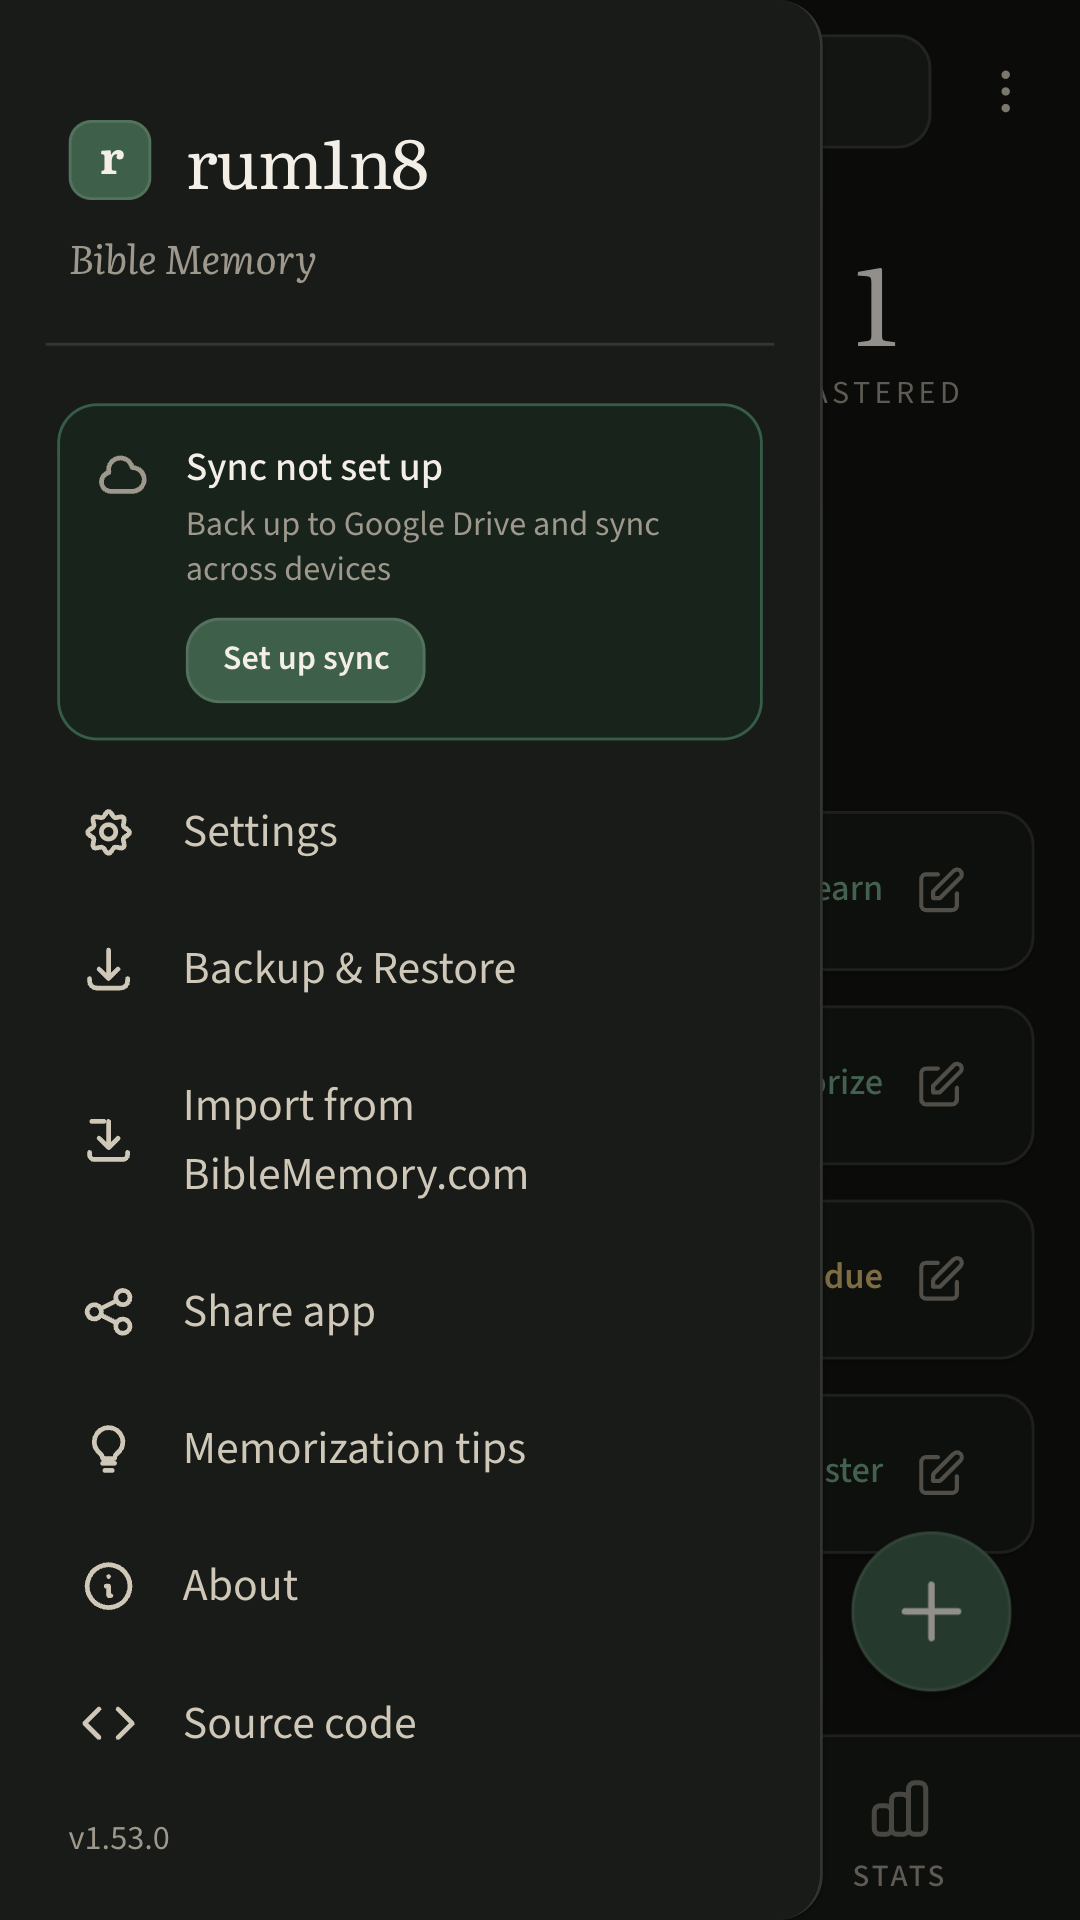
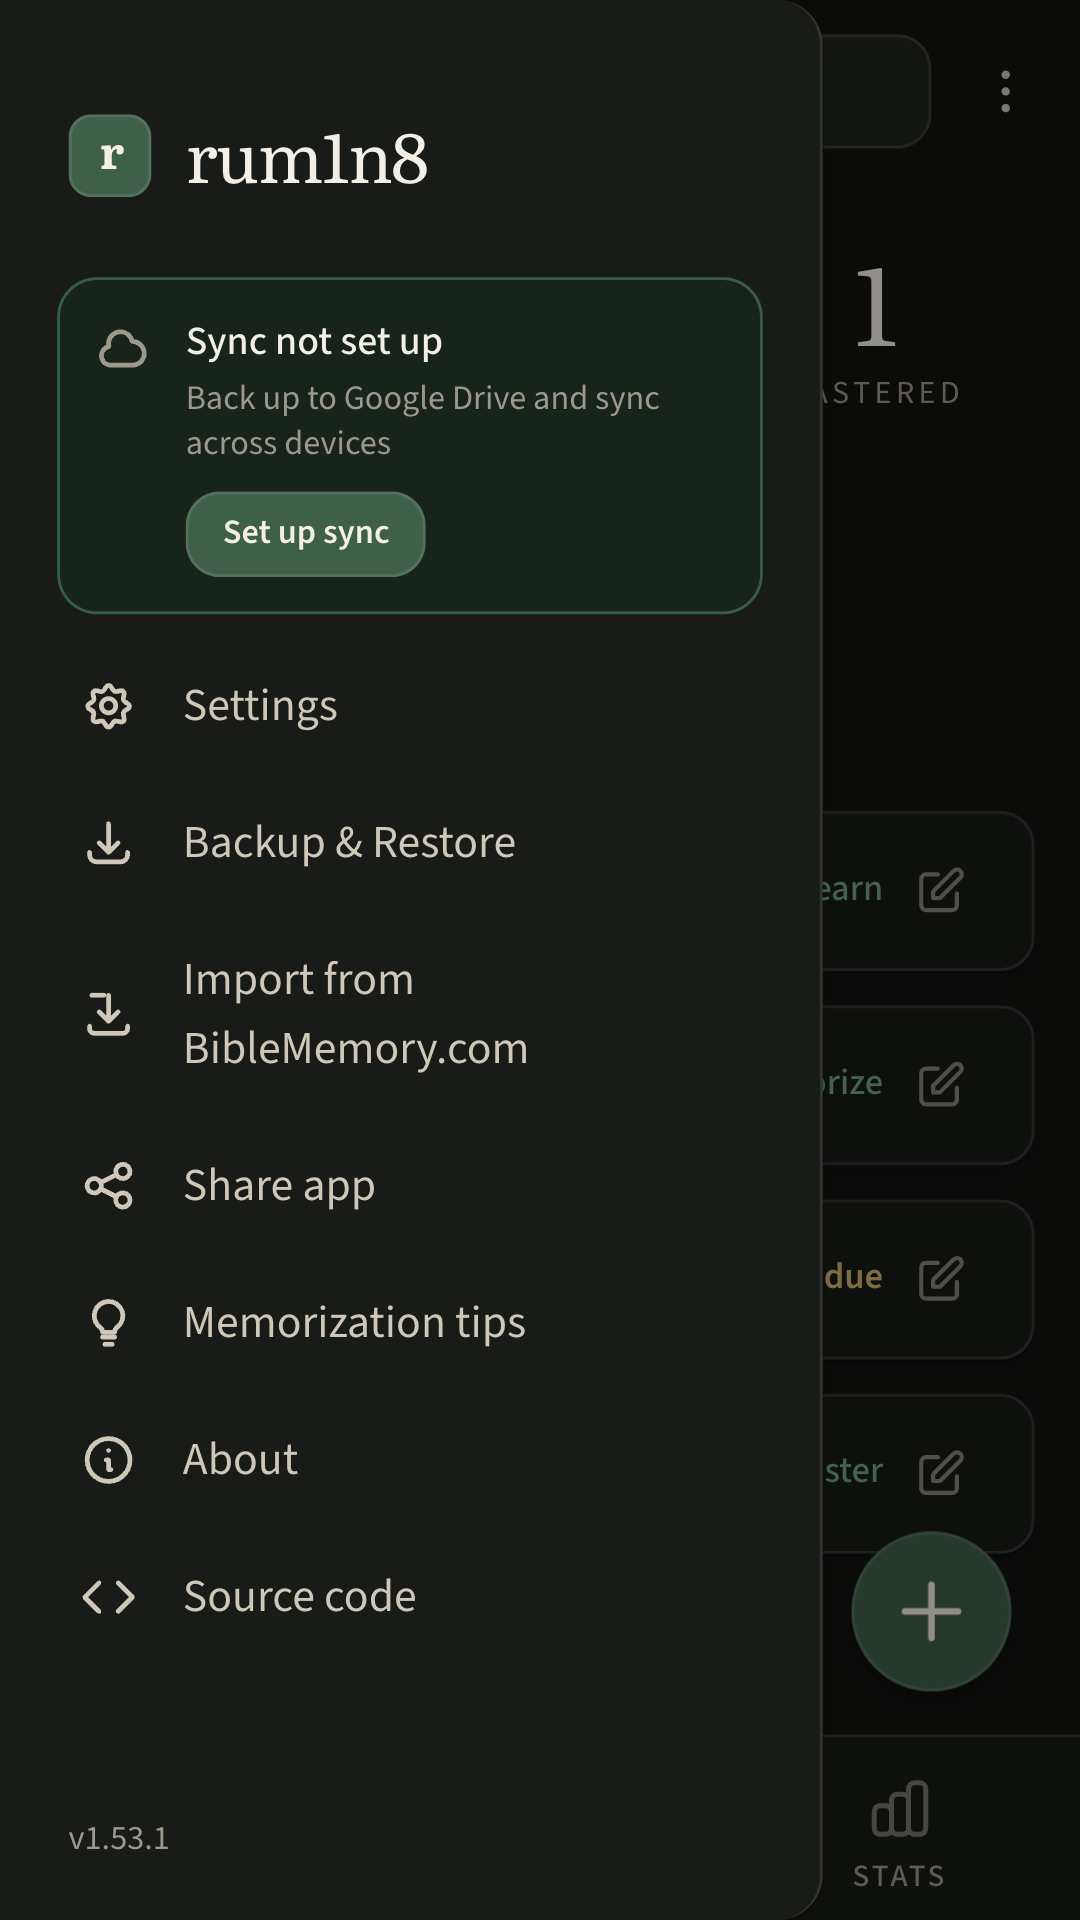
feat: simplify drawer branding

diff --git a/src/App.vue b/src/App.vue
@@ -321,14 +321,12 @@
           style="border-radius: 0 16px 16px 0;"
         >
         <!-- App header -->
-        <div class="px-6 pt-10 pb-5" style="padding-top: max(2.5rem, calc(env(safe-area-inset-top) + 1rem));">
+        <div class="px-6 pt-10 pb-4" style="padding-top: max(2.5rem, calc(env(safe-area-inset-top) + 1rem));">
           <div class="flex items-center gap-3">
             <BrandMark size="sm" />
-            <span class="font-serif text-2xl tracking-tight text-text-primary">rum1n8</span>
+            <span class="font-serif text-2xl leading-none tracking-tight text-text-primary">rum1n8</span>
           </div>
-          <p class="mt-2 font-serif italic text-sm text-text-muted">Bible Memory</p>
         </div>
-        <div class="border-t border-border-default mx-4 mb-2" />
         <!-- Settings items -->
         <nav class="flex-1 px-3 py-2 overflow-y-auto">
           <!-- Sync status card -->

diff --git a/AGENTS.md b/AGENTS.md
@@ -19,7 +19,7 @@
 
 ## Marketing Screenshots
 
-- After any user interface change, run `node scripts/generate-marketing-assets.mjs` and include all regenerated screenshots from `public/marketing/` with the change.
+- Run `node scripts/generate-marketing-assets.mjs` only before committing, or when regenerated screenshots are needed to inspect a user-interface change. Include all regenerated screenshots from `public/marketing/` with the change.
 
 ## Git Workflow
 
